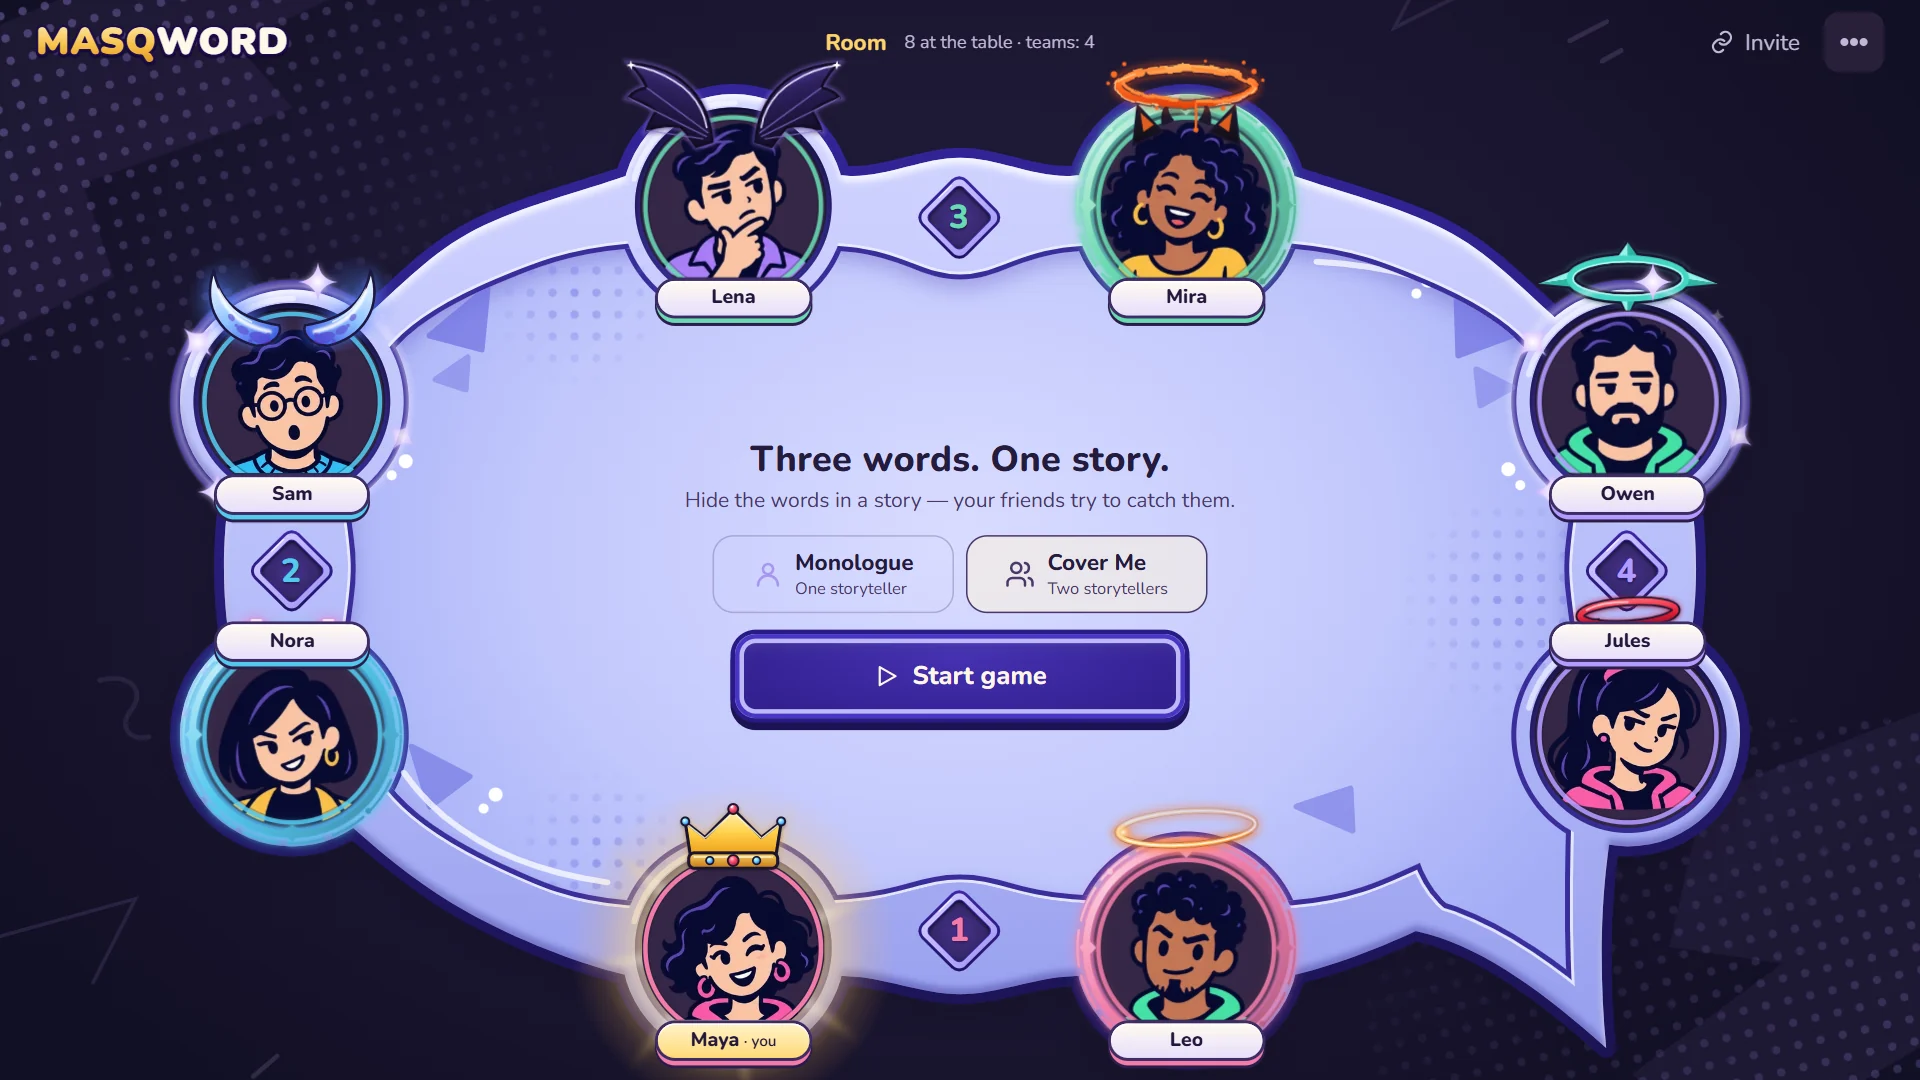
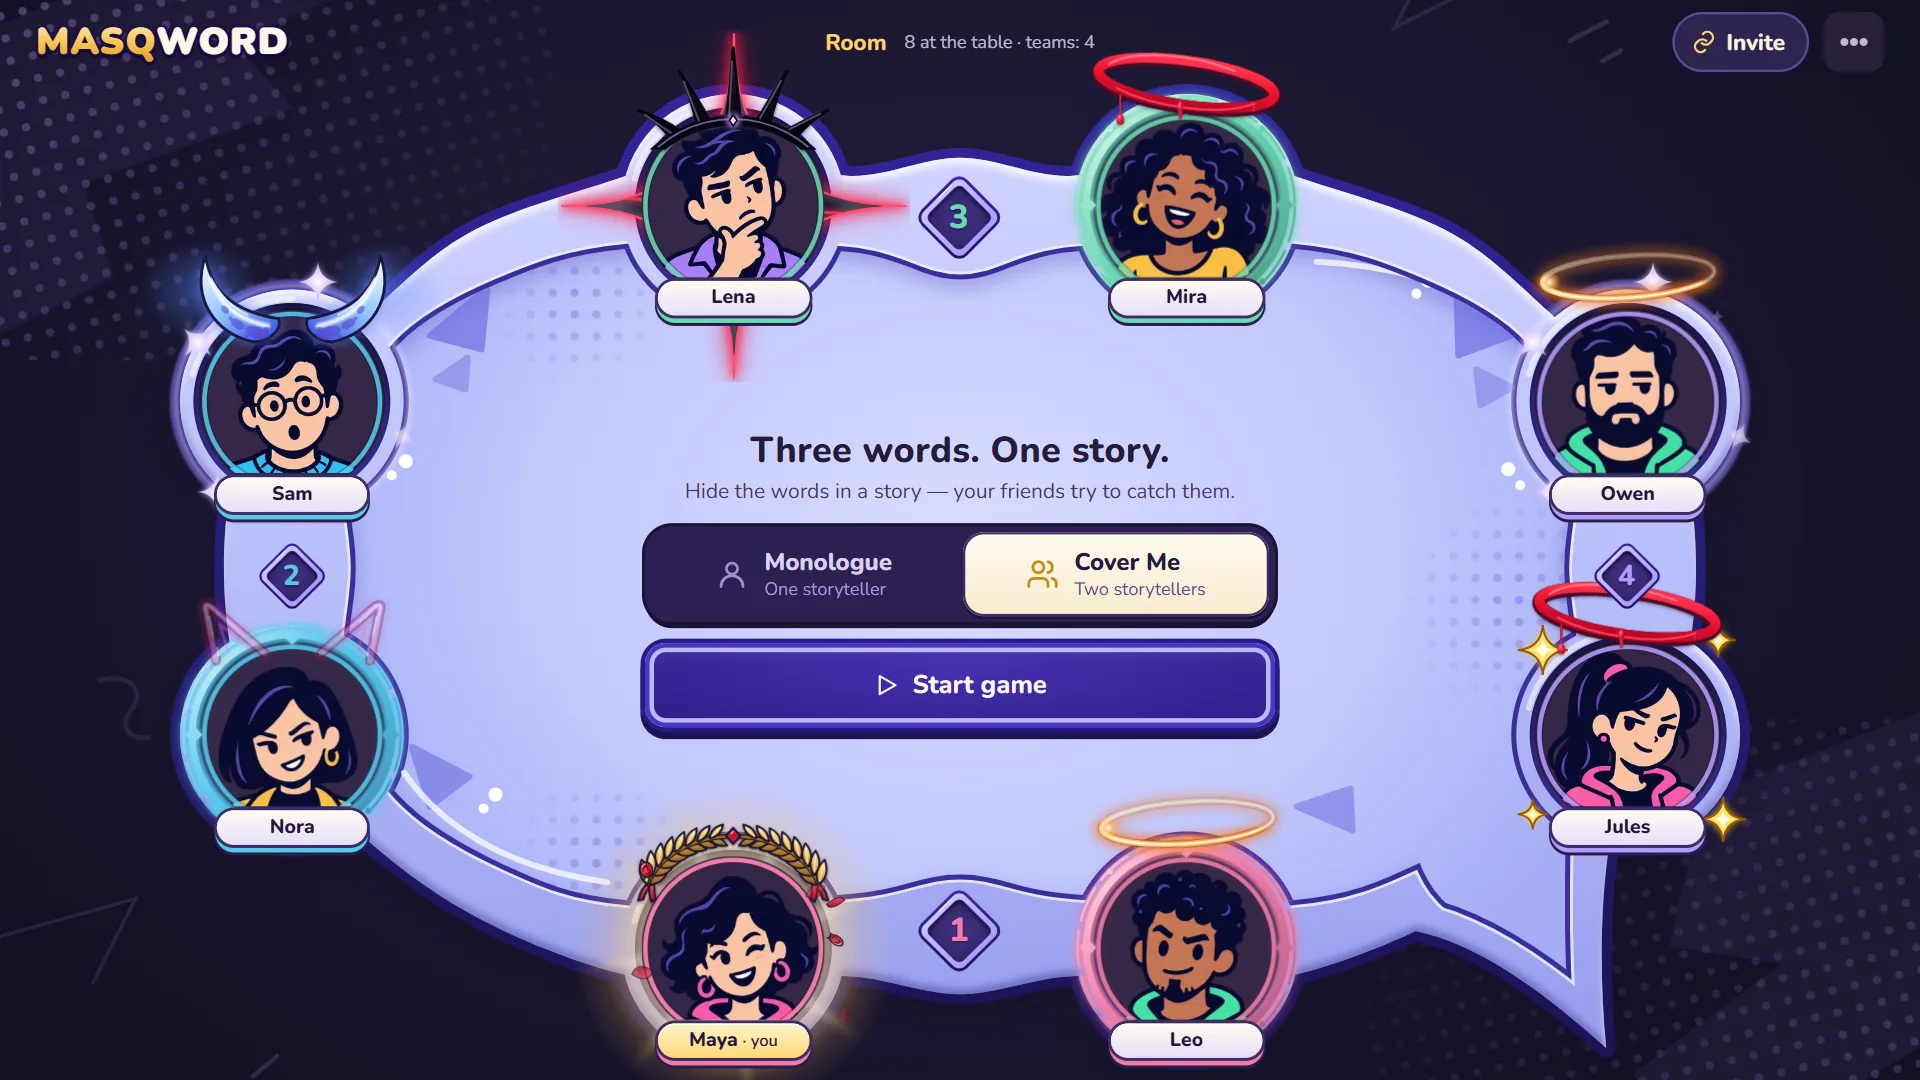
README: site redesign, current screenshots, October audit and Clef content review
- Studio: masqword.com redesign with two site captures (hero, playable sample round).
- Game screenshots retaken from the current build (2026-10-13).
- Tech stack: 1,059 Vitest tests in 88 files.
- Built with AI: recounted commits; the multi-model audit fix and the Clef-based content review.
- AI workflow: advisor role, fast read-only sweeps, task-scoped deployment authorisation.

diff --git a/README.md b/README.md
@@ -21,6 +21,13 @@ MASQWORD is an independent game studio: **a Ukrainian team based in Austria**, f
 | **Bunker** (working title) | In development. A social debate game: players argue over who earns a place in the bunker. For Discord, mobile and the web. |
 | *Untitled word game* | Coming soon. A word party game designed for Discord voice chat; our biggest game yet. |
 
+The studio site, [masqword.com](https://masqword.com), was redesigned in October 2026. It opens with the game itself: a hero built from the mask and the words on the table, then a playable sample round where you read a short story and pick the three hidden words before Discord ever loads.
+
+| | |
+| --- | --- |
+| ![masqword.com: the hero](screenshots/site-home.webp) | ![masqword.com: try a round in the browser](screenshots/site-try.webp) |
+| *Home: the mask, the words, one call to play* | *Try a round: catch three words in a story, then reveal* |
+
 ## The game
 
 One player gets a situation and **three secret words** and tells a story out loud, working the words in naturally. Everyone else listens (voice stays in Discord or with the people in the room), throws the words they suspect onto a shared table, then votes. The reveal shows who caught which word and who smuggled one past everybody. 2–8 players, solo or in teams, in **English, Spanish and Russian**.
@@ -32,7 +39,7 @@ One player gets a situation and **three secret words** and tells a story out lou
 | ![Listeners throw suspicious words onto the shared table](screenshots/narrate-listener.webp) | ![The reveal: who caught which word](screenshots/results-listener.webp) |
 | *Listener: sees the table, never the secret words* | *Reveal: storytellers judge typos and short forms, then the table is revealed* |
 
-Screenshots come from a dev fixture with fictional players (see [`examples/screenshot-pipeline.py`](examples/screenshot-pipeline.py)).
+Screenshots come from a dev fixture with fictional players (see [`examples/screenshot-pipeline.py`](examples/screenshot-pipeline.py)), retaken from the current build on 2026-10-13.
 
 ## Cosmetics in motion
 
@@ -69,7 +76,7 @@ The GIF loops are re-timed slightly so they repeat without a jump: a few CSS ani
 | Rules | A **pure reducer** `apply(state, action, ctx)` shared by the browser mock and the server, plus a **per-viewer projection** `projectFor(state, viewerId)` so secrets never reach the wrong socket. |
 | Persistence | Durable Object storage (room state and action-id dedupe), **Workers KV** (editable content catalogue), **Workers Analytics Engine** (anonymous gameplay statistics: no typed words, no names, no room codes). |
 | Languages | Three UI languages (device or Discord locale) and a separate room language; scene and word packs per language, with a seeded chi-square test on the word draw. |
-| Checks | **Vitest**: 756 tests in 71 files, all passing on 2026-10-08. An integration harness boots the Worker locally and drives independent authenticated clients through team, improv and shared-table flows. **Playwright** captures screenshots at fixed viewports. |
+| Checks | **Vitest**: 1,059 tests in 88 files, all passing on 2026-10-13. An integration harness boots the Worker locally and drives independent authenticated clients through team, improv and shared-table flows. **Playwright** captures screenshots at fixed viewports. |
 | Tooling | Node 22, Wrangler 4, Python (Pillow, Playwright) for brand art and the studio site. |
 
 The private repository is organised as `src/state` (rules, content), `src/ui` (screens), `src/net` (sockets, reliability), `src/lib` (i18n, Discord, effects governor) and `worker/src` (room server, protocol allowlist, lifecycle, site routing, telemetry).
@@ -124,18 +131,20 @@ Decisions worth knowing about:
 
 ## Built with AI
 
-Claude Code is our main engineering tool. Of the 112 commits in the private repository (first commit 2026-07-20, counted on 2026-10-08), **99 carry a Claude `Co-Authored-By` trailer**, from sessions on Claude Sonnet 5.5, Opus 5.5 and Fable 5.1. A Claude Code session acts as Lead: it owns intent, architecture, integration and acceptance, and works from a rules file and a short handoff note instead of chat history. Sub-agents take bounded packets (exact files, behaviour, checks) and read-only review passes. Humans decide the product, the look and anything involving publishing or money. The working agreement is in [`docs/ai-workflow.md`](docs/ai-workflow.md).
+Claude Code is our main engineering tool. Of the 247 commits in the private repository (first commit 2026-07-20, counted on 2026-10-13), **167 carry a Claude `Co-Authored-By` trailer**, from sessions on Claude Sonnet 5.5, Opus 5.5 and Fable 5.1. A Claude Code session acts as Lead: it owns intent, architecture, integration and acceptance, and works from a rules file and a short handoff note instead of chat history. Sub-agents take bounded packets (exact files, behaviour, checks) and read-only review passes. Humans decide the product, the look and anything involving publishing or money. The working agreement is in [`docs/ai-workflow.md`](docs/ai-workflow.md).
 
 Concrete examples from the history (commit ids refer to the private repository):
 
 - **Localisation into English and Spanish.** A Claude session wrote the full EN and ES UI dictionaries and the live language switching (`b444d5a`, `477e778`). A *different* coding agent worked read-only alongside it in two phases: first a glossary and a risk list (words with vulgar or double meanings in Spain or Latin America, false friends, literal calques), then a line-by-line review of both dictionaries against real released localisations of party games, one table row per problem with a proposed text and a source. The agreed terminology went into the dictionaries, for example one turn is one story and a round is a full circle, *lanzar* and never *tirar*. The result was checked on screenshots of the game's phases in both languages at three viewport sizes, plus a programmatic overflow report.
 - **Security reviews that changed the code.** Multiplayer changes pass a cross-model review before they ship: Claude sub-agents and Codex review the diff independently of the session that wrote it, and the Lead validates every finding. Fixes that came out of review passes: in the "open table" mode (listeners read thrown words live, the storyteller stays blind) duplicate-word echoes were hidden from storytellers, undo was capped per story, echoes were capped and throws were blocked while paused (`4cc83ed`); a host action that changes the storyteller was restricted to the lobby and preparation (`b2cef8f`); a kicked listener stopped blocking the vote and invisible or bidirectional characters were stripped from nicknames (`f5e7f85`). The backend spec lists the regression tests a change of this kind must carry: forged actors, words and indices, stale versions, concurrent final contributions, durable replay after a lost ack, disconnect and host fallback.
+- **An external audit, fixed by a team of models.** In October 2026 a deep audit of the game listed findings across content, effects, avatars and analytics. The Lead (Claude Opus 5.5) split them into packets: Codex (GPT-6-Astra) rebuilt the gameplay telemetry so outcomes are counted once and the owner dashboard reports which sections are partial (`beadabf`), Devin SWE-2 fixed the effects governor's timers and the avatar edge cache (`c8136c2`, `03a49d9`), and the Lead fixed the content rules itself: pack words must be one token everywhere, client, server and catalogue, and a word swap never deals a word already in the hand (`097d13b`). Claude Haiku 5.5 ran read-only sweeps over client and server; the Lead reproduced every finding before acting. Some were real and fixed (`c7c2fca`: an echoed throw now settles the input, no dead Ready button after the preparation deadline, the next solo storyteller can start their own turn), some were rejected as working by design. Everything shipped only after the unit suite and the real-multiplayer integration run passed on a clean checkout.
+- **Content review with Cloudflare Clef.** The scene and word library (about 2,650 items in three languages) is reviewed in a local-only Content Lab. Cloudflare's Clef model answers typed questions about each item (is it a single concrete noun, is it the right difficulty tier, can a storyteller weave it into a story, does it duplicate another word in the pack) and returns calibrated probabilities. Written critique and rewrite proposals come from ordinary chat sessions with Codex and Claude through a hash-bound export and import, shown next to Clef's numbers. Neither is authoritative: a human keeps, reworks or rejects every item. Gemini 4 Argon built this round of the tool (`ac217df`, `d51a396`); the Lead checked it against live Clef calls and corrected the cost estimate with measured token counts (`fa90a44`).
 - **Brand and store art rendered by scripts.** The icon, cover and background art, Rich Presence badges and social images are produced by Python scripts (SVG drawn as code, lit with SVG filters, rendered by Chromium through Playwright), and the store screenshots by a script that drives the real client (`48cdeec`). A colour or size change is one command, not a redraw. Art direction stays with a human art director; Claude Code writes and iterates the scripts.
-- **The studio site is generated.** One script turns a config into static HTML with JSON-LD, `robots.txt` (Claude's crawlers explicitly allowed), `sitemap.xml` and `llms.txt`, and the Worker routing that serves it is unit-tested (`97f6e34`). Values the owner has not confirmed stay empty and are left out, never invented. See [`examples/studio-site-generator.py`](examples/studio-site-generator.py).
+- **The studio site is generated.** One script turns a config into static HTML with JSON-LD, `robots.txt` (Claude's crawlers explicitly allowed), `sitemap.xml` and `llms.txt`, and the Worker routing that serves it is unit-tested (`97f6e34`). Values the owner has not confirmed stay empty and are left out, never invented. Screenshot URLs carry a content hash, so a retaken screenshot is never hidden behind a stale cache (`e02eadb`). See [`examples/studio-site-generator.py`](examples/studio-site-generator.py).
 - **Screenshot-based design checks.** Layouts are captured with Playwright at fixed sizes (including short landscape phone frames, because Activities run in small windows), read back, measured and fixed. One UI pass records a 25-viewport sweep reporting 0/200 issues (`d9fdb3e`). An image-comparison model can give an advisory second opinion; it never replaces looking at the pixels or human acceptance.
 - **Evidence in commit messages.** Commits carry the checks that were run, for example "unit 567/567, build ok, 25-viewport sweep 0/200 issues". The local mock, a local real-Worker run, a real Discord client, a physical phone and a human playtest are tracked separately, and a pass on one is never reported as a pass on another.
 
-We are model-agnostic below the Lead. The history also shows Codex used for server-side waves, Devin SWE-2 for UI packets and Gemini Flash for small tests and copy, each reviewed by the Lead before merging. We measure what each tool is good at and reassign work accordingly.
+We are model-agnostic below the Lead. The history also shows Codex (GPT-6-Astra) used for server-side waves, Devin SWE-2 for bounded UI and Worker packets, Gemini for tooling, small tests and copy, and Claude Haiku 5.5 for fast read-only sweeps, each reviewed by the Lead before merging. We measure what each tool is good at and reassign work accordingly.
 
 **Planned, not built yet: Claude inside the product.** A game master that writes fresh scenes for each table in the room's language; fair judging of near-miss guesses (typo, short form, different word); moderation and translation of community content packs before they reach other tables; short post-game recaps. We would use a small fast model for judging and moderation and a larger one for scene writing.
 
@@ -145,7 +154,7 @@ We are model-agnostic below the Lead. The history also shows Codex used for serv
 | --- | --- | --- |
 | [`examples/`](examples) | Five short code excerpts with explanatory headers | MIT |
 | [`docs/ai-workflow.md`](docs/ai-workflow.md) | How we work with AI | All rights reserved |
-| [`screenshots/`](screenshots) | Four game screenshots and the app icon (WebP) | All rights reserved |
+| [`screenshots/`](screenshots) | Four game screenshots, two studio-site captures and the app icon (WebP) | All rights reserved |
 | [`media/`](media) | Cosmetics captures: three looping GIFs and two WebP sheets | All rights reserved |
 
 ## What is deliberately not here

diff --git a/docs/ai-workflow.md b/docs/ai-workflow.md
@@ -8,7 +8,8 @@ A short, honest description of the working agreement behind MASQWORD. It is dist
 | --- | --- | --- |
 | Lead | A Claude Code session, with the founder deciding direction | Intent, architecture, integration, visual and game-feel acceptance, merges |
 | Builder | A coding agent given a written packet | One well-specified slice with exact file ownership |
-| Reviewer | A separate read-only agent session | Findings with severity, reproduction and the file or state involved |
+| Reviewer | A separate read-only agent session, often a small fast model sweeping many files | Findings with severity, reproduction and the file or state involved |
+| Advisor | One second frontier model, consulted on hard architecture and debugging questions | Advice, not authority: the Lead decides |
 | Owner | Humans | Product decisions, look and feel, anything involving money, publishing or deployment |
 
 The Lead validates every finding and reviews every diff before it is merged. Builders and reviewers never decide what ships.
@@ -43,4 +44,4 @@ Layout is checked on pixels, not on assumptions: Playwright captures a dev-only 
 
 ## What stays human
 
-Whether a game is fun, whether a cosmetic looks good, what we charge, what we publish and when we deploy. Deployment, publishing and purchases need explicit authorisation from the owner every time; an earlier approval never carries over.
+Whether a game is fun, whether a cosmetic looks good, what we charge, what we publish and when we deploy. A task the owner gives authorises the steps inside it, including deploying work once the full checks pass; anything outside the task that involves new money, secrets or deleting data goes back to the owner. History never authorises an action: an earlier deployment or approval is never repeated on its own.
